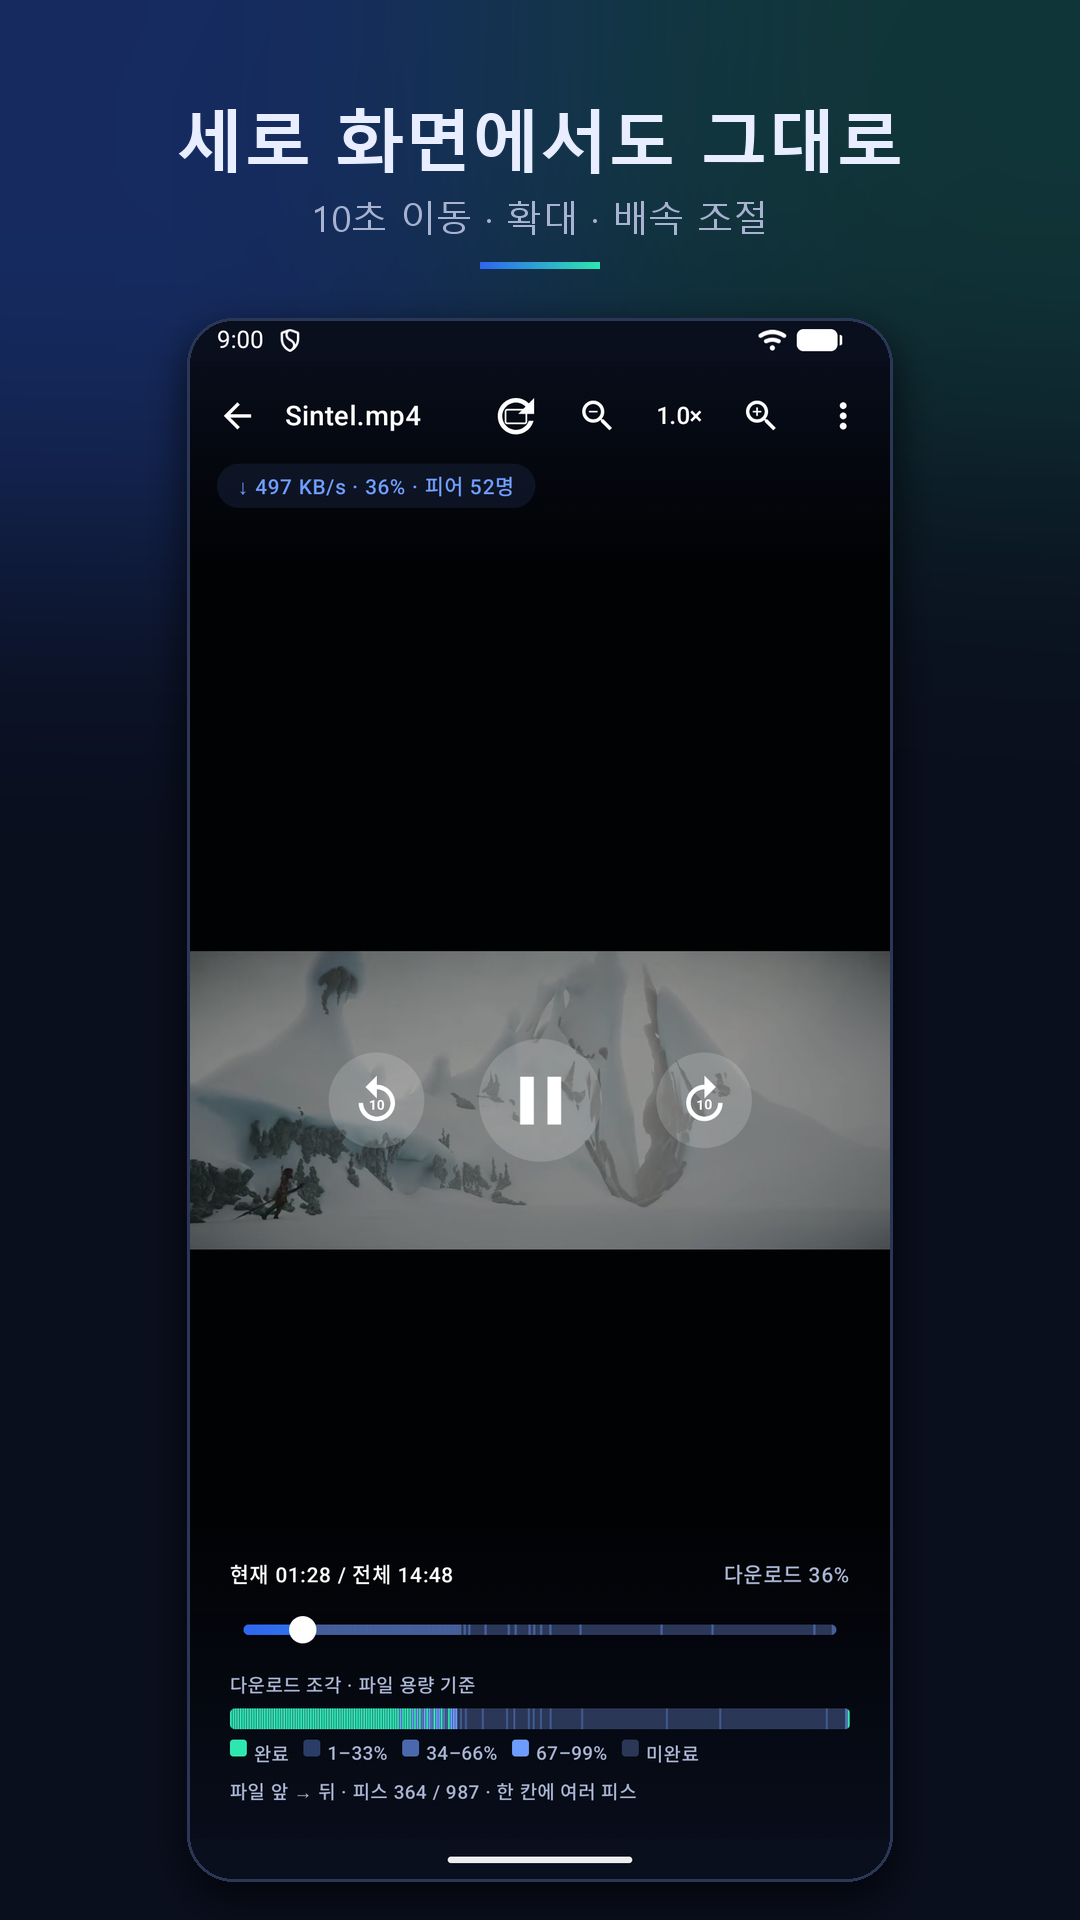
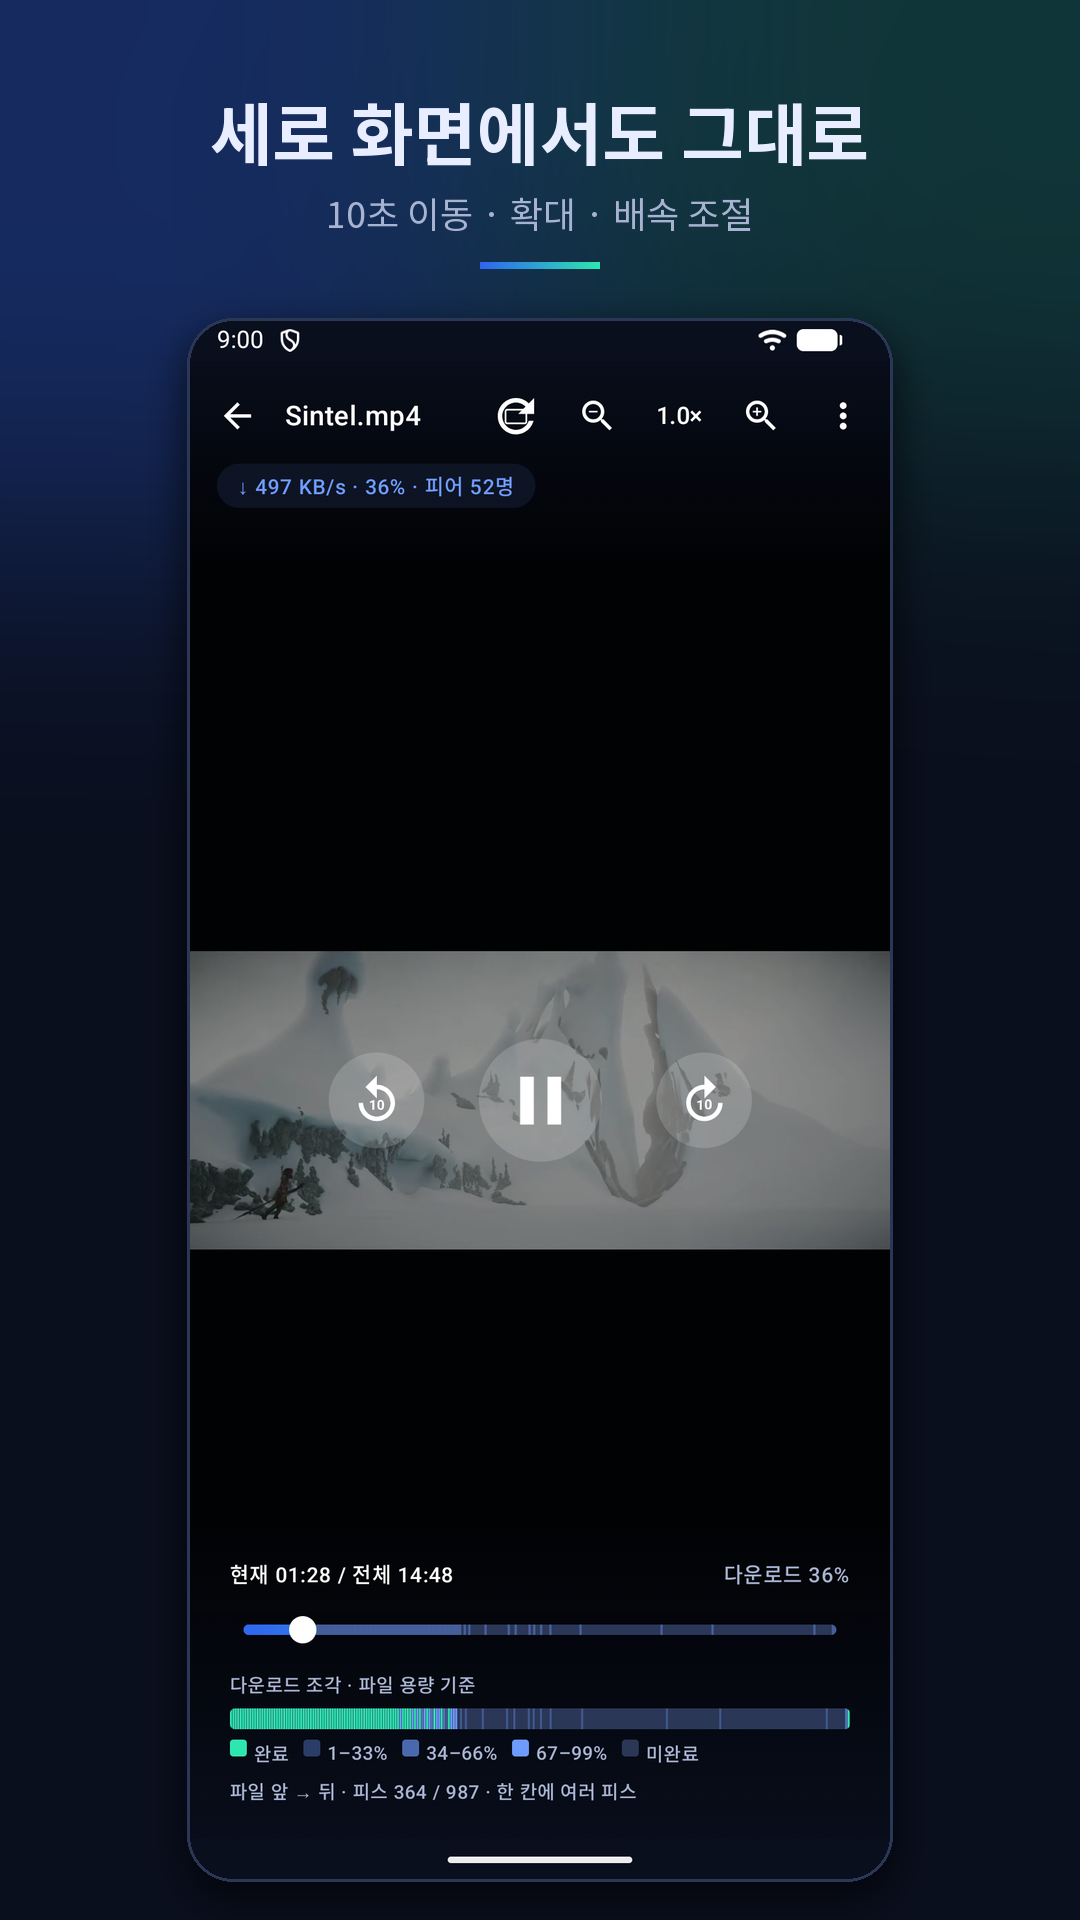
스토어 그래픽·스크린샷 문구 글꼴을 Noto Sans KR로 교체
맑은 고딕 26px에서 '받'이 깨져 그려지던 문제(그래픽 이미지 아래 줄)를 고쳤다.
그래픽 이미지와 스크린샷 6장을 같은 원본 캡처로 다시 만들었다.

Refs #49

Changed region(s): [[0.1528, 0.0312, 0.825, 0.125]]

diff --git a/launch/store-assets/tools/compose.py b/launch/store-assets/tools/compose.py
@@ -2,7 +2,9 @@ import sys,os
 from PIL import Image, ImageDraw, ImageFont, ImageFilter
 S=sys.argv[1]; OUT=sys.argv[2]; os.makedirs(OUT,exist_ok=True)
 BG=(0x0A,0x0F,0x1E); C1=(0x2F,0x66,0xF0); C2=(0x2E,0xE6,0xB0); ON=(0xE8,0xEE,0xFF); SUB=(0xA7,0xB3,0xD1); OUTL=(0x2A,0x37,0x57)
-FB='C:/Windows/Fonts/malgunbd.ttf'; FR='C:/Windows/Fonts/malgun.ttf'
+NOTO='C:/Windows/Fonts/NotoSansKR-VF.ttf'
+def font(size,weight):
+    f=ImageFont.truetype(NOTO,size); f.set_variation_by_axes([weight]); return f
 def bg(W,H):
     img=Image.new('RGB',(W,H),BG); gl=Image.new('RGBA',(W,H),(0,0,0,0)); g=ImageDraw.Draw(gl)
     g.ellipse((-W*0.3,-H*0.15,W*0.7,H*0.35),fill=C1+(80,)); g.ellipse((W*0.5,-H*0.1,W*1.3,H*0.3),fill=C2+(45,))
@@ -20,13 +22,13 @@ def text_c(d,W,y,t,f,fill):
     b=d.textbbox((0,0),t,font=f); d.text(((W-(b[2]-b[0]))//2-b[0],y),t,font=f,fill=fill)
 def portrait(name,src,title,sub):
     W,H=1080,1920; img=bg(W,H); d=ImageDraw.Draw(img)
-    text_c(d,W,92,title,ImageFont.truetype(FB,68),ON); text_c(d,W,192,sub,ImageFont.truetype(FR,36),SUB)
+    text_c(d,W,92,title,font(68,700),ON); text_c(d,W,192,sub,font(36,400),SUB)
     bar(d,W//2-60,262,120,6)
     h=1560; w=round(h*1080/2400); shot(img,src,((W-w)//2,320,w,h),44)
     img.save(os.path.join(OUT,name))
 def landscape(name,src,title,sub):
     W,H=1920,1080; img=bg(W,H); d=ImageDraw.Draw(img)
-    text_c(d,W,56,title,ImageFont.truetype(FB,60),ON); text_c(d,W,146,sub,ImageFont.truetype(FR,32),SUB)
+    text_c(d,W,56,title,font(60,700),ON); text_c(d,W,146,sub,font(32,400),SUB)
     bar(d,W//2-60,206,120,6)
     w=1560; h=round(w*1080/2400); shot(img,src,((W-w)//2,268,w,h),36)
     img.save(os.path.join(OUT,name))

diff --git a/launch/store-assets/tools/feature.py b/launch/store-assets/tools/feature.py
@@ -1,6 +1,9 @@
 import sys
 from PIL import Image, ImageDraw, ImageFont, ImageFilter
 fg_path, out = sys.argv[1], sys.argv[2]
+NOTO='C:/Windows/Fonts/NotoSansKR-VF.ttf'
+def font(size,weight):
+    f=ImageFont.truetype(NOTO,size); f.set_variation_by_axes([weight]); return f
 W,H=1024,500
 BG=(0x0A,0x0F,0x1E); C1=(0x2F,0x66,0xF0); C2=(0x2E,0xE6,0xB0)
 img=Image.new('RGB',(W,H),BG)
@@ -14,9 +17,9 @@ bbox=fg.getchannel('A').point(lambda a:255 if a>8 else 0).getbbox(); fg=fg.crop(
 s=300/fg.height; fg=fg.resize((int(fg.width*s),300),Image.LANCZOS)
 img.paste(fg,(90,(H-300)//2),fg)
 d=ImageDraw.Draw(img)
-fb=ImageFont.truetype('C:/Windows/Fonts/malgunbd.ttf',88)
-fr=ImageFont.truetype('C:/Windows/Fonts/malgun.ttf',38)
-fs=ImageFont.truetype('C:/Windows/Fonts/malgun.ttf',26)
+fb=font(88,700)
+fr=font(38,400)
+fs=font(26,400)
 x=520
 # wordmark with gradient fill
 title='PiecePlay'; tb=d.textbbox((0,0),title,font=fb); tw,th=tb[2]-tb[0],tb[3]-tb[1]

diff --git a/launch/store-assets/README.md b/launch/store-assets/README.md
@@ -25,7 +25,7 @@
 
 ## 다시 만들기
 
-`tools/`의 스크립트(Python + Pillow, Windows 맑은 고딕 글꼴)로 만들었다.
+`tools/`의 스크립트(Python + Pillow, Windows의 Noto Sans KR 가변 글꼴 `NotoSansKR-VF.ttf`. 맑은 고딕은 작은 크기에서 "받"이 깨져 쓰지 않는다)로 만들었다.
 
 - `feature.py <적응형 아이콘 전경 png> <출력>`: 그래픽 이미지
 - `compose.py <작업 폴더> <출력 폴더>`: 작업 폴더의 `final/` 아래 원본 캡처(`01_main.png`, `02_preparing.png`, `player_landscape.png`, `player_portrait.png`, `02_playlist.png`, `03_stored_files.png`)로 스크린샷 6장을 만든다. 문구는 스크립트 안에 있다.
